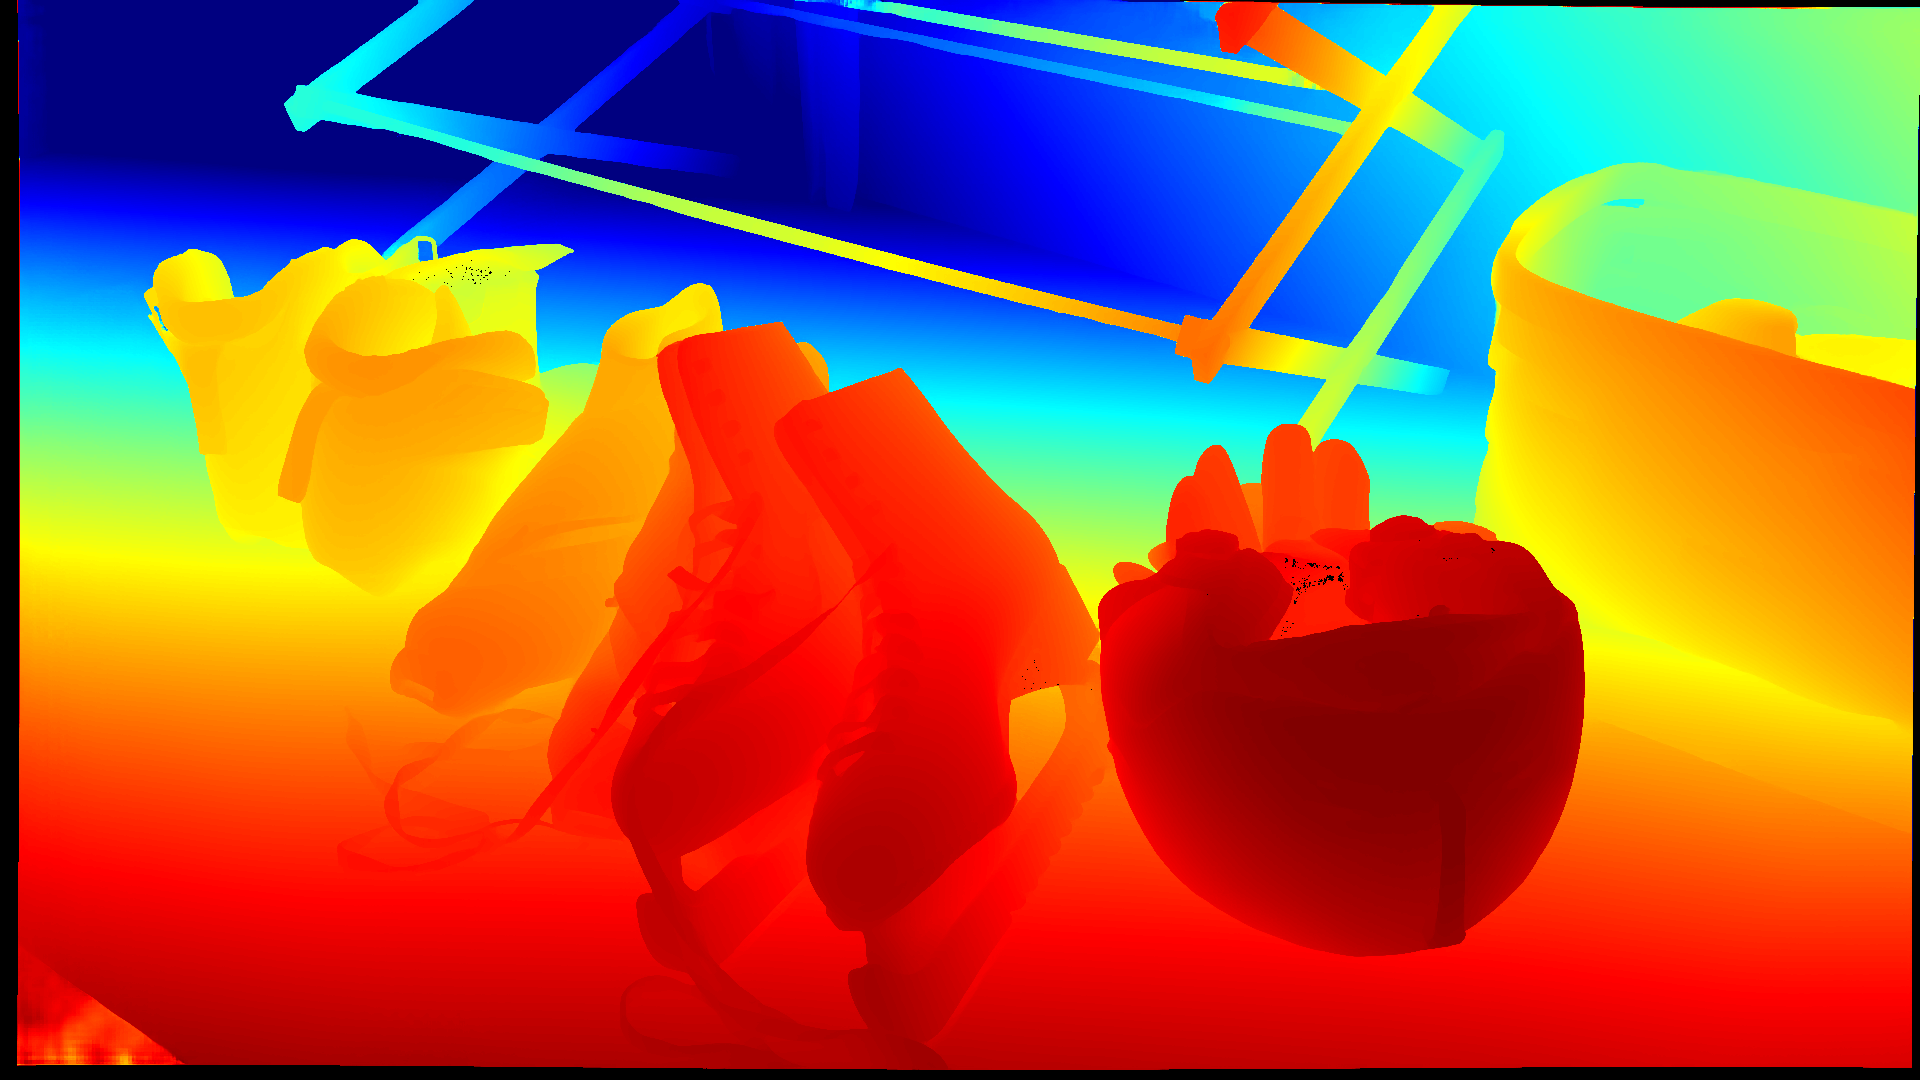
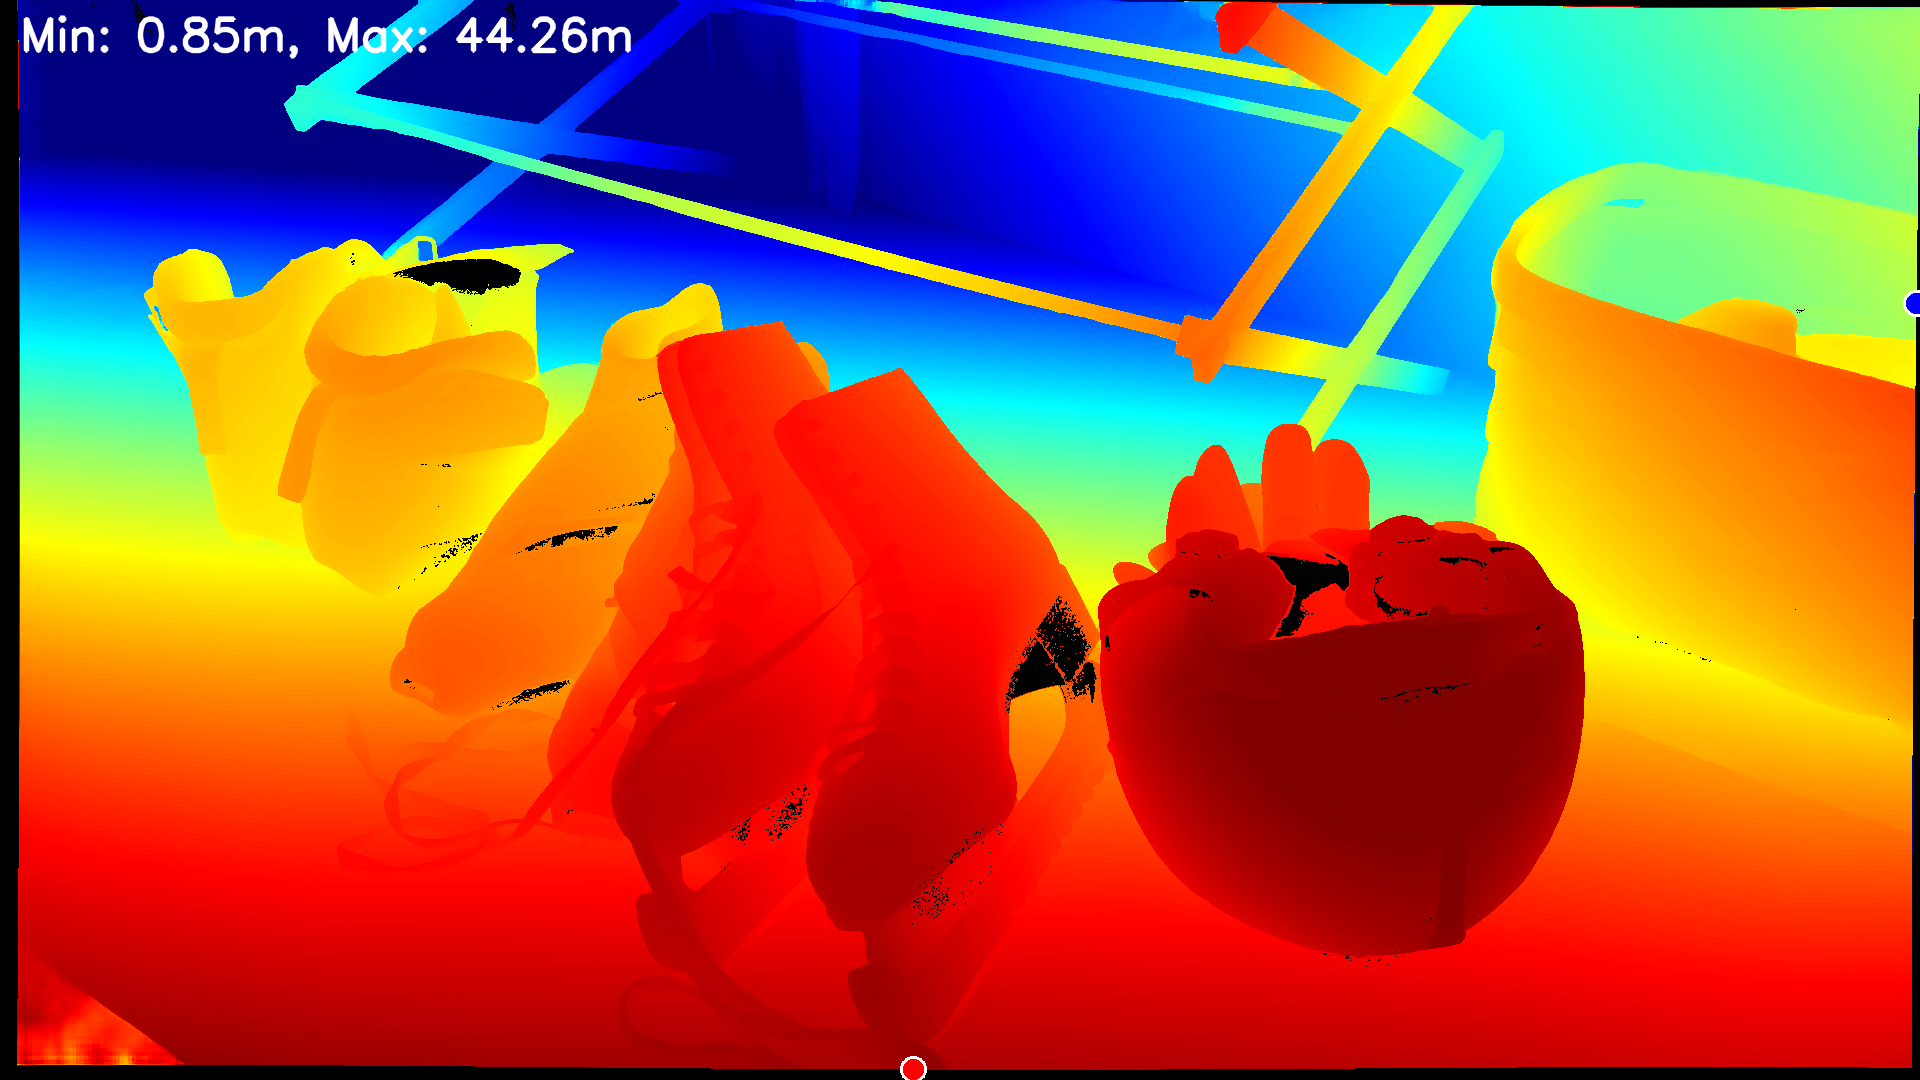
폴더 경로 변경 및 구조 업데이트

diff --git a/IGEV-plusplus/src/utils/demo_imgs_test_baseline_and_Distance.py b/IGEV-plusplus/src/utils/demo_imgs_test_baseline_and_Distance.py
@@ -1,0 +1,171 @@
+"""
+# asset/real_imgs/rect 폴더의 모든 이미지를 처리
+PYTHONPATH=. python src/demo_imgs_test_baseline_and_Distance.py
+
+# 특정 폴더만 지정하여 처리하고 싶을 경우
+PYTHONPATH=. python src/demo_imgs_test_baseline_and_Distance.py --input_dir ./asset/real_imgs/rect/real_world_1
+"""
+
+import sys
+sys.path.append('core')
+
+import argparse
+import glob
+import numpy as np
+import torch
+from tqdm import tqdm
+from pathlib import Path
+from core.igev_stereo import IGEVStereo
+from core.utils.utils import InputPadder
+from PIL import Image
+from matplotlib import pyplot as plt
+import os
+import cv2
+
+DEVICE = 'cuda'
+os.environ['CUDA_VISIBLE_DEVICES'] = '0'
+
+def load_image(imfile):
+    img = np.array(Image.open(imfile)).astype(np.uint8)[..., :3]
+    # OpenCV는 BGR 순서를 사용하므로 변환
+    img_bgr = cv2.cvtColor(img, cv2.COLOR_RGB2BGR)
+    img_torch = torch.from_numpy(img).permute(2, 0, 1).float()
+    return img_torch[None].to(DEVICE), img_bgr
+
+def disp_to_depth(disp, baseline_m, fx_pixels):
+    """
+    Disparity map을 Depth map으로 변환합니다.
+    """
+    disp[disp <= 0] = 0.1
+    depth = (baseline_m * fx_pixels) / disp
+    return depth
+
+def analyze_and_visualize_depth(depth, original_image):
+    """
+    Depth map을 분석하고 시각화합니다.
+    """
+    # 1. 마스크 생성
+    gray = cv2.cvtColor(original_image, cv2.COLOR_BGR2GRAY)
+    mask = (gray < 10)
+
+    # 2. 유효 깊이 데이터 추출
+    valid_depth = depth[~mask & (depth > 0.1)]
+    if len(valid_depth) == 0:
+        return np.zeros_like(original_image)
+
+    # 3. 최소/최대 깊이 값 및 위치 찾기
+    min_depth_val = np.min(valid_depth)
+    max_depth_val = np.max(valid_depth)
+
+    # 임시 깊이 맵을 만들어 최소/최대 값의 좌표를 찾음
+    temp_depth_min = depth.copy()
+    temp_depth_min[mask] = np.inf
+    min_loc_yx = np.unravel_index(np.argmin(temp_depth_min), depth.shape)
+    
+    temp_depth_max = depth.copy()
+    temp_depth_max[mask] = -np.inf
+    max_loc_yx = np.unravel_index(np.argmax(temp_depth_max), depth.shape)
+
+    # (y, x) -> (x, y) 순서로 변환
+    min_loc_xy = (min_loc_yx[1], min_loc_yx[0])
+    max_loc_xy = (max_loc_yx[1], max_loc_yx[0])
+
+    # 4. 동적 범위 결정 및 시각화
+    min_val_norm = np.percentile(valid_depth, 2)
+    max_val_norm = np.percentile(valid_depth, 95)
+    
+    depth_clipped = np.clip(depth, min_val_norm, max_val_norm)
+    depth_normalized = cv2.normalize(depth_clipped, None, 0, 255, cv2.NORM_MINMAX, dtype=cv2.CV_8U)
+    depth_inverted = 255 - depth_normalized
+    depth_colored = cv2.applyColorMap(depth_inverted, cv2.COLORMAP_JET)
+
+    # 5. 마스킹 적용
+    depth_colored[mask] = 0
+
+    # 6. 결과 이미지에 포인트 및 텍스트 추가
+    # 최소 지점 (가장 가까움) - 빨간색 원
+    cv2.circle(depth_colored, min_loc_xy, 12, (0, 0, 255), -1)
+    cv2.circle(depth_colored, min_loc_xy, 12, (255, 255, 255), 2)
+
+    # 최대 지점 (가장 멈) - 파란색 원
+    cv2.circle(depth_colored, max_loc_xy, 12, (255, 0, 0), -1)
+    cv2.circle(depth_colored, max_loc_xy, 12, (255, 255, 255), 2)
+
+    # 거리 정보 텍스트
+    text = f"Min: {min_depth_val:.2f}m, Max: {max_depth_val:.2f}m"
+    cv2.putText(depth_colored, text, (20, 50), cv2.FONT_HERSHEY_SIMPLEX, 1.5, (255, 255, 255), 3, cv2.LINE_AA)
+
+    return depth_colored
+
+
+def demo(args):
+    model = torch.nn.DataParallel(IGEVStereo(args), device_ids=[0])
+    print(f"Loading checkpoint from {args.restore_ckpt}")
+    model.load_state_dict(torch.load(args.restore_ckpt))
+    
+    model = model.module
+    model.to(DEVICE)
+    model.eval()
+
+    output_directory = Path(args.output_dir)
+    output_directory.mkdir(exist_ok=True, parents=True)
+
+    with torch.no_grad():
+        left_images = sorted(glob.glob(os.path.join(args.input_dir, "**/im0.png"), recursive=True))
+        right_images = sorted(glob.glob(os.path.join(args.input_dir, "**/im1.png"), recursive=True))
+        
+        if not left_images:
+            print(f"Error: No image pairs found in '{args.input_dir}'.")
+            return
+            
+        print(f"Found {len(left_images)} image pairs in '{args.input_dir}'. Saving files to '{output_directory}/'")
+
+        for (imfile1, imfile2) in tqdm(list(zip(left_images, right_images))):
+            image1_torch, image1_cv = load_image(imfile1)
+            image2_torch, _ = load_image(imfile2)
+
+            padder = InputPadder(image1_torch.shape, divis_by=32)
+            image1_torch_padded, image2_torch_padded = padder.pad(image1_torch, image2_torch)
+
+            disp_pred_padded = model(image1_torch_padded, image2_torch_padded, iters=args.valid_iters, test_mode=True)
+            disp_pred_unpadded = padder.unpad(disp_pred_padded).cpu().numpy().squeeze()
+            
+            depth_map = disp_to_depth(disp_pred_unpadded.copy(), args.baseline, args.focal_length)
+            depth_viz = analyze_and_visualize_depth(depth_map, image1_cv)
+            
+            file_stem = Path(imfile1).parent.name
+            depth_viz_filename = output_directory / f"{file_stem}_depth.png"
+            cv2.imwrite(str(depth_viz_filename), depth_viz)
+
+
+if __name__ == '__main__':
+    parser = argparse.ArgumentParser()
+    
+    # 경로 설정
+    parser.add_argument('--input_dir', help="입력 스테레오 쌍 경로", default="./asset/tests")
+    parser.add_argument('--output_dir', help="출력 저장 경로", default="./asset/output")
+    parser.add_argument('--restore_ckpt', help="체크포인트 복원", default="./pretrained_models/igev_plusplus/sceneflow.pth")
+
+    # 깊이 계산 파라미터
+    parser.add_argument('--baseline', type=float, help="카메라 베이스라인 (미터 단위)", default=0.11153) # 111.53mm
+    parser.add_argument('--focal_length', type=float, help="카메라 초점거리 (픽셀 단위)", default=1758.23)
+    
+    # 모델 설정 (기존과 동일)
+    parser.add_argument('--mixed_precision', action='store_true', default=True)
+    parser.add_argument('--precision_dtype', default='float32', choices=['float16', 'bfloat16', 'float32'])
+    parser.add_argument('--valid_iters', type=int, default=16)
+    parser.add_argument('--hidden_dims', nargs='+', type=int, default=[128]*3)
+    parser.add_argument('--corr_levels', type=int, default=2)
+    parser.add_argument('--corr_radius', type=int, default=4)
+    parser.add_argument('--n_downsample', type=int, default=2)
+    parser.add_argument('--n_gru_layers', type=int, default=3)
+    parser.add_argument('--max_disp', type=int, default=768)
+    parser.add_argument('--s_disp_range', type=int, default=48)
+    parser.add_argument('--m_disp_range', type=int, default=96)
+    parser.add_argument('--l_disp_range', type=int, default=192)
+    parser.add_argument('--s_disp_interval', type=int, default=1)
+    parser.add_argument('--m_disp_interval', type=int, default=2)
+    parser.add_argument('--l_disp_interval', type=int, default=4)
+
+    args = parser.parse_args()
+    demo(args)
